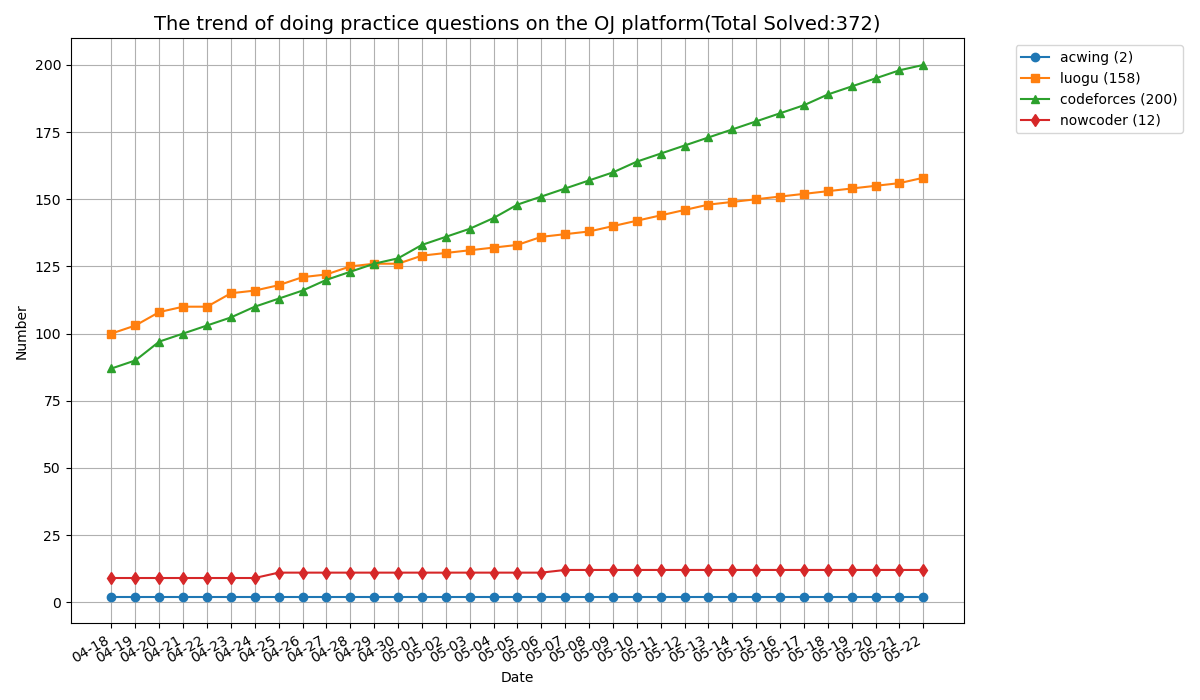
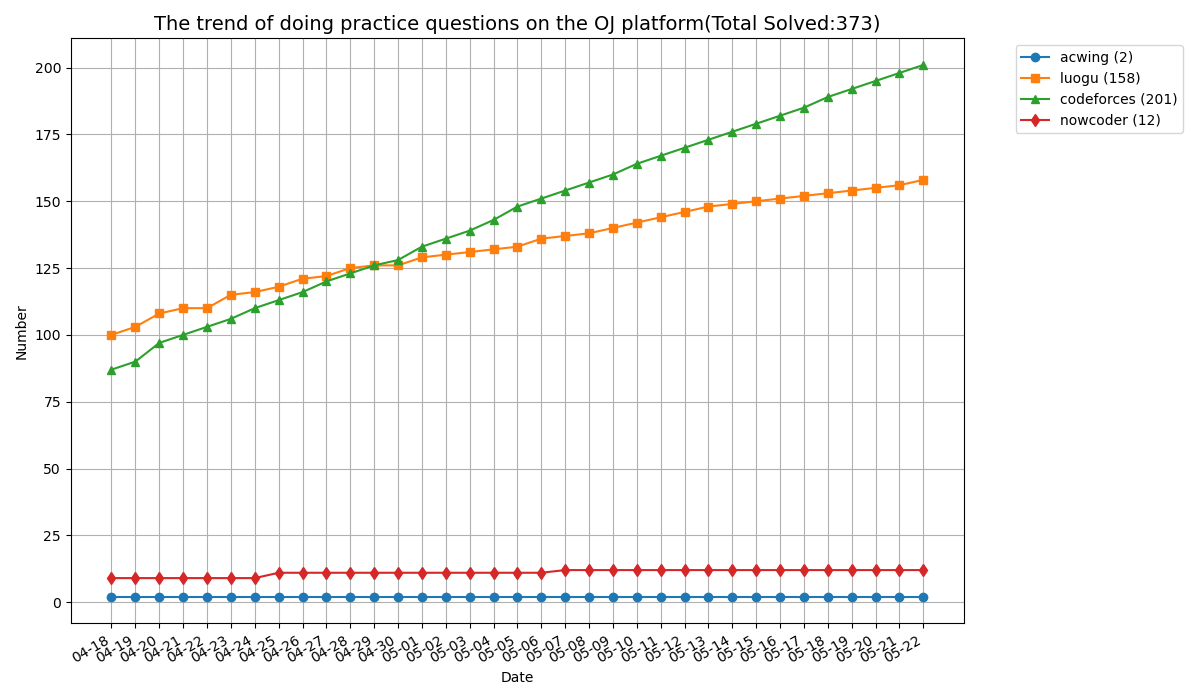
update

diff --git a/codeforces/1560A/main.cpp b/codeforces/1560A/main.cpp
@@ -1,0 +1,62 @@
+#include <bits/stdc++.h>
+using namespace std;
+
+#define ALL(x) (x).begin(), (x).end()
+#define MAXV(a, l, r) *std::max_element((a).begin() + (l), (a).begin() + (r))
+#define MINV(a, l, r) *std::min_element((a).begin() + (l), (a).begin() + (r))
+
+using ll = long long int;
+using ull = unsigned long long int;
+using PII = pair<int, int>;
+
+#define DEBUG
+
+#ifdef DEBUG
+template <typename Container> void PrintCon(const Container &cont) {
+  std::cout << "{ ";
+  if (!cont.empty()) {
+    auto it = cont.begin();
+    std::cout << "\033[33m" << *it++ << "\033[0m";
+    for (; it != cont.end(); ++it)
+      std::cout << " | " << "\033[33m" << *it << "\033[0m";
+  }
+  std::cout << " }" << std::endl;
+}
+
+template <typename... Args> void LOG(Args &&...values) {
+  ((std::cout << "\033[33m" << std::forward<Args>(values) << "\033[0m" << " "),
+   ...);
+  std::cout << std::endl;
+}
+#else
+template <typename... Args> void LOG(Args &...args);
+
+template <typename Container> void PrintCon(const Container &cont);
+#endif
+
+void solve() {
+  int n;
+  cin >> n;
+  int cnt = 1;
+  int ans = 1;
+  while (cnt != n) {
+    ans++;
+    if (ans % 3 == 0 || ans % 10 == 3) {
+      continue;
+    }
+    cnt++;
+  }
+  cout << ans << endl;
+}
+
+int main() {
+  ios::sync_with_stdio(false);
+  cin.tie(nullptr);
+  int t;
+  cin >> t;
+  while (t--) {
+    solve();
+  }
+
+  return 0;
+}
